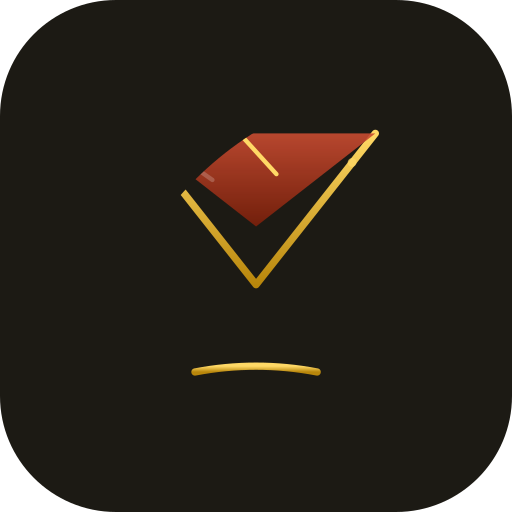
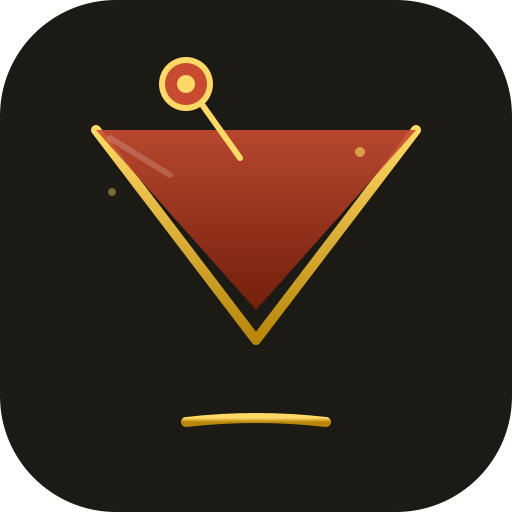
Corrige ícone PWA — taça centralizada e sem cortes
Redesenha o SVG do ícone com coordenadas absolutas em 512×512,
eliminando o corte que acontecia nos cantos arredondados.
Taça de martini dourada com cereja e palito, totalmente visível.

Changed region(s): [[0.1562, 0.2188, 0.8438, 0.75], [0.3438, 0.7812, 0.6562, 0.8438], [0.3125, 0.0938, 0.4375, 0.2188]]

diff --git a/scripts/generate-icons.js b/scripts/generate-icons.js
@@ -2,7 +2,8 @@ const sharp = require('sharp');
 const path  = require('path');
 const fs    = require('fs');
 
-// SVG que replica o AppIcon.js — fundo escuro arredondado + taça dourada
+// Ícone desenhado diretamente em 512×512 — sem transforms aninhados
+// Taça de martini dourada com cereja, centralizada e com padding seguro
 const iconSvg = `
 <svg xmlns="http://www.w3.org/2000/svg" viewBox="0 0 512 512" width="512" height="512">
   <defs>
@@ -19,27 +20,43 @@ const iconSvg = `
       <stop offset="50%" stop-color="#FFD966"/>
       <stop offset="100%" stop-color="#B8860B"/>
     </linearGradient>
-    <clipPath id="rounded">
-      <rect x="0" y="0" width="512" height="512" rx="116" ry="116"/>
-    </clipPath>
   </defs>
 
-  <!-- Fundo escuro com bordas arredondadas -->
+  <!-- Fundo escuro arredondado -->
   <rect x="0" y="0" width="512" height="512" rx="116" ry="116" fill="#1C1A14"/>
 
-  <!-- Conteúdo centralizado (escala de 110x120 → ~320x350, centrado em 512x512) -->
-  <g clip-path="url(#rounded)" transform="translate(96, 81) scale(2.91)">
-    <path d="M14 18 L55 70 L96 18" stroke="url(#ig)" stroke-width="2.5" stroke-linejoin="round" fill="none" stroke-linecap="round"/>
-    <path d="M14 18 L55 50 L96 18 Z" fill="url(#il)" opacity="0.9"/>
-    <path d="M20 20 L40 34" stroke="rgba(255,255,255,0.2)" stroke-width="1.5" stroke-linecap="round"/>
-    <line x1="55" y1="70" x2="55" y2="100" stroke="url(#is)" stroke-width="2.5" stroke-linecap="round"/>
-    <path d="M34 100 Q55 96 76 100" stroke="url(#ig)" stroke-width="2.5" stroke-linecap="round" fill="none"/>
-    <line x1="42" y1="10" x2="62" y2="32" stroke="#FFD966" stroke-width="1.5" stroke-linecap="round"/>
-    <circle cx="42" cy="10" r="6" fill="#C84B31" stroke="#FFD966" stroke-width="1.5"/>
-    <circle cx="42" cy="10" r="2" fill="#FFD966"/>
-    <circle cx="88" cy="28" r="1.5" fill="#FFD966" opacity="0.7"/>
-    <circle cx="20" cy="38" r="1" fill="#FFD966" opacity="0.5"/>
-  </g>
+  <!-- Boca da taça: de (96,130) ao vértice (256,340) até (416,130) -->
+  <path d="M96 130 L256 340 L416 130"
+        stroke="url(#ig)" stroke-width="10" stroke-linejoin="round"
+        fill="none" stroke-linecap="round"/>
+
+  <!-- Preenchimento interno (líquido) -->
+  <path d="M96 130 L256 310 L416 130 Z"
+        fill="url(#il)" opacity="0.9"/>
+
+  <!-- Reflexo de luz no líquido -->
+  <path d="M110 138 L170 175"
+        stroke="rgba(255,255,255,0.18)" stroke-width="6" stroke-linecap="round"/>
+
+  <!-- Haste da taça -->
+  <line x1="256" y1="340" x2="256" y2="415"
+        stroke="url(#is)" stroke-width="10" stroke-linecap="round"/>
+
+  <!-- Base da taça -->
+  <path d="M186 422 Q256 414 326 422"
+        stroke="url(#ig)" stroke-width="10" stroke-linecap="round" fill="none"/>
+
+  <!-- Palito da cereja -->
+  <line x1="196" y1="96" x2="240" y2="158"
+        stroke="#FFD966" stroke-width="6" stroke-linecap="round"/>
+
+  <!-- Cereja -->
+  <circle cx="186" cy="84" r="24" fill="#C84B31" stroke="#FFD966" stroke-width="6"/>
+  <circle cx="186" cy="84" r="9"  fill="#FFD966"/>
+
+  <!-- Pontos decorativos de brilho -->
+  <circle cx="360" cy="152" r="5" fill="#FFD966" opacity="0.6"/>
+  <circle cx="112" cy="192" r="4" fill="#FFD966" opacity="0.4"/>
 </svg>
 `;
 
